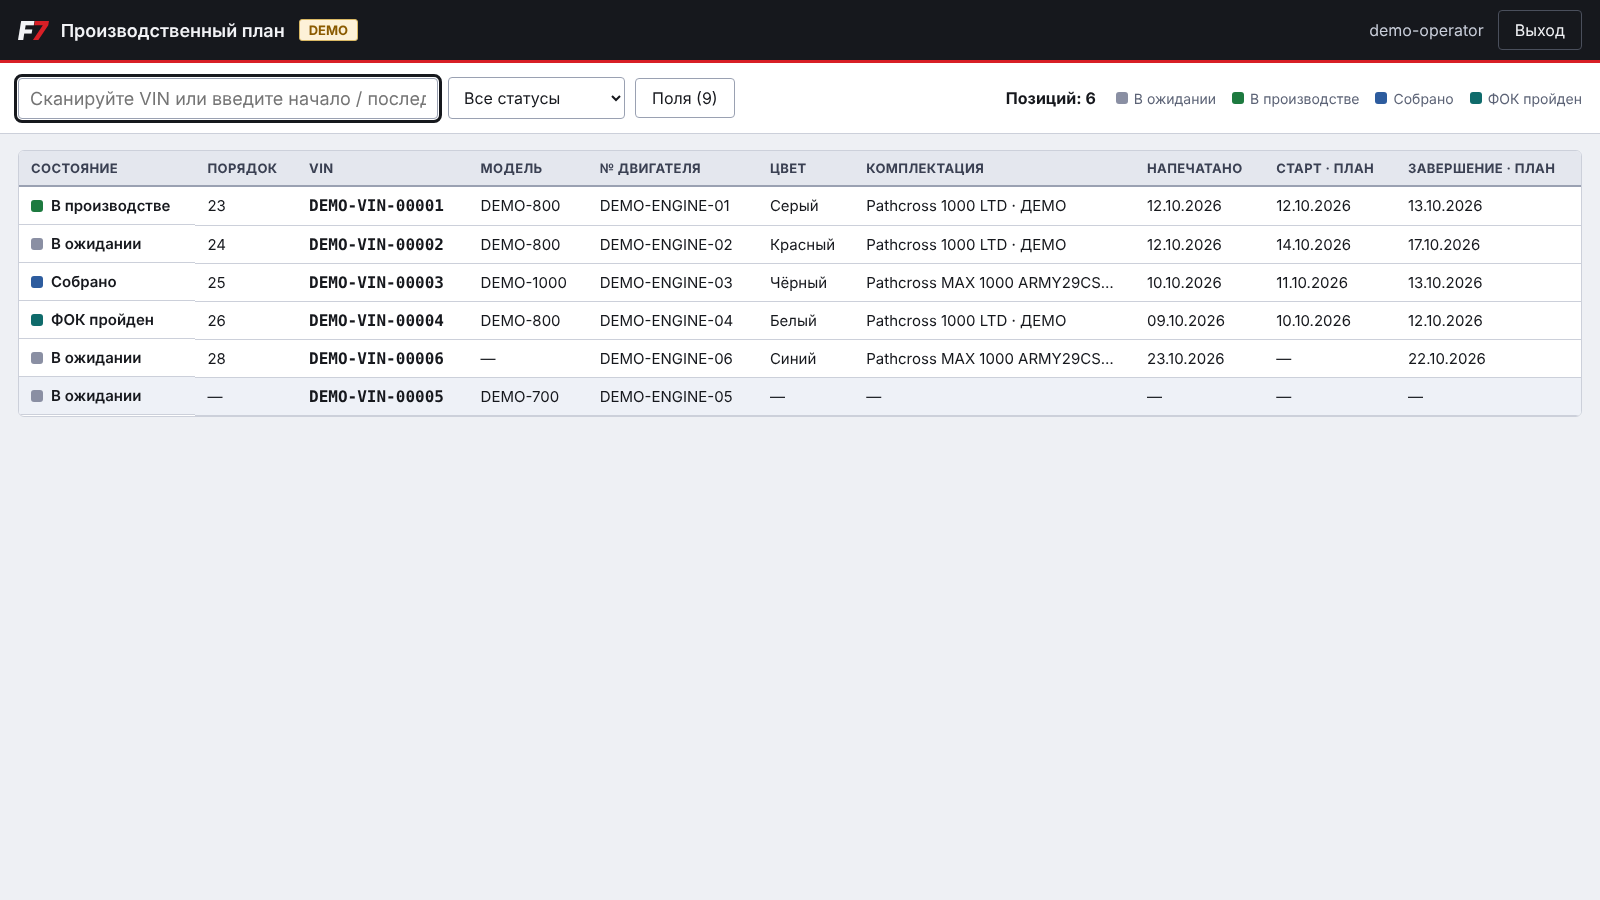
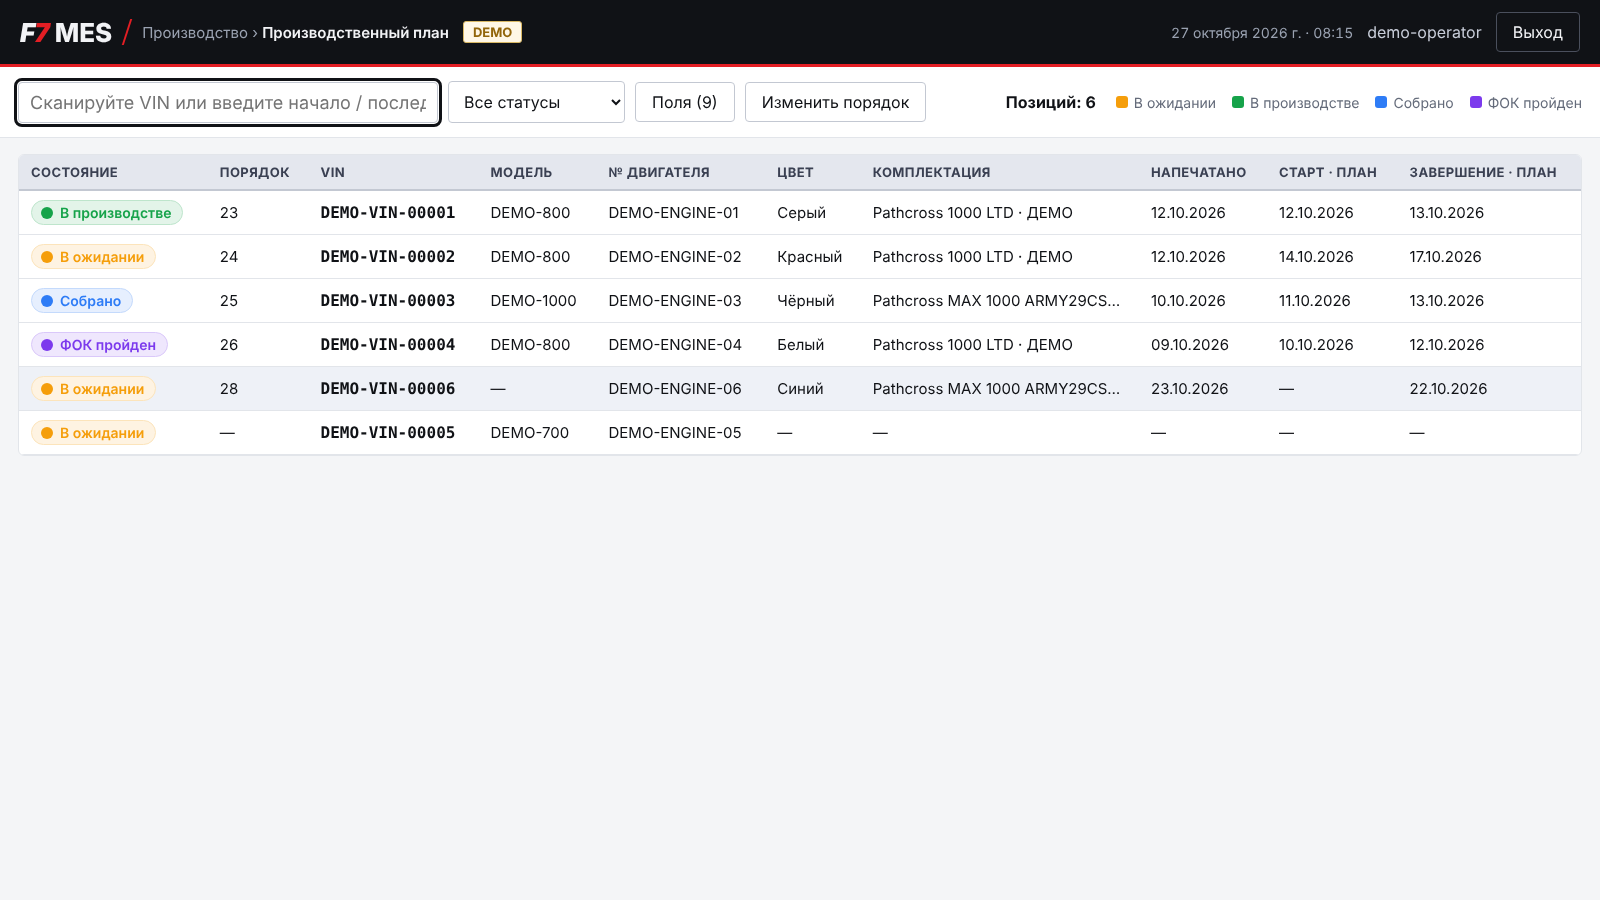
feat(mes): визуальный язык по концепту F7 MES
Палитра (графит #101216 + красный #e31e24), шкала шрифтов концепта,
статусные бейджи «заливка + точка + слово» в цветах концепта
(ожидает — янтарный, в работе — зелёный, план/собрано — синий,
контроль/ФОК — фиолетовый), шапка с хлебными крошками, датой-временем
и логотипом F7 MES. Главное действие — фирменный красный.

Исходники концепта сохранены в docs/design/. В docs/DESIGN_DIRECTION.md
записано: что взято, правило для красного (крупная кнопка = действие,
маленький бейдж = брак), что отложено сознательно (боковое меню до
второго экрана, дашборд и линия станций — нет данных, тёмная тема)
и где концепт расходится с реальной схемой (ключ VIN вместо серийного
номера и заказов PO, строка плана = одно изделие, станций в данных нет).

Claude-Session: https://claude.ai/code/session_01MHLE83y1reisH1Le2nLnJn

Changed region(s): [[0.0, 0.0, 1.0, 0.4978]]

diff --git a/formulad-mes2/apps/web/src/styles.css b/formulad-mes2/apps/web/src/styles.css
@@ -1,26 +1,34 @@
 :root {
-  /* Фирменные цвета F7: графит и красный. Красный зарезервирован под брак и аварию,
-     оформлением он не работает — иначе настоящую тревогу перестанут замечать. */
-  --graphite: #16181d;
-  --graphite-soft: #2a2e38;
-  --f7-red: #d81f26;
+  /* Палитра и шкала из концепта «F7 MES» (docs/design/concept-design-system.png).
+     Красный — фирменный цвет и цвет главного действия; статус «брак» тоже красный,
+     но это всегда маленький залитый бейдж с иконкой и словом, а не крупная кнопка. */
+  --graphite: #101216;
+  --graphite-soft: #1c2026;
+  --graphite-line: #2a2f38;
+  --f7-red: #e31e24;
+  --f7-red-dark: #b8171c;
 
-  --bg: #eef0f4;
+  --bg: #f4f5f7;
   --surface: #ffffff;
-  --border: #ccd0da;
-  --border-strong: #9aa1b2;
-  --text: #16181d;
-  --muted: #5c6376;
+  --border: #e2e5ea;
+  --border-strong: #c3c8d2;
+  --text: #101216;
+  --muted: #646b7a;
 
-  --state-waiting: #8a8fa3;
-  --state-in-work: #1d7a3f;
-  --state-complete: #2d5c9e;
-  --state-fok: #0f6b6b;
-  --warn-bg: #fdf1d8;
-  --warn: #8a5a00;
+  /* Статусы концепта: план — синий, в сборке — зелёный, ожидает — янтарный,
+     контроль — фиолетовый, брак — красный. */
+  --st-plan: #2e7cf6;
+  --st-work: #16a34a;
+  --st-wait: #f59e0b;
+  --st-control: #7c3aed;
+  --st-reject: #dc2626;
+  --st-open: #6b7280;
 
-  font-family: system-ui, "Segoe UI", Roboto, sans-serif;
-  /* Экран смотрят с рабочего ПК, поэтому базовый размер крупнее офисного. */
+  --warn-bg: #fff7e6;
+  --warn: #92650a;
+
+  font-family: Inter, system-ui, "Segoe UI", Roboto, sans-serif;
+  /* Шкала концепта: H1 32 / H2 24 / H3 18 / Body 16 / Small 14 / Caption 12. */
   font-size: 16px;
   color-scheme: light;
 }
@@ -80,11 +88,23 @@ button.link {
   display: flex;
   align-items: center;
   gap: 14px;
-  padding: 10px 18px;
+  padding: 12px 20px;
   background: var(--graphite);
   color: #f2f3f6;
   border-bottom: 3px solid var(--f7-red);
 }
+
+/* Разделитель-«слэш» из логотипа концепта. */
+.topbar .slash {
+  width: 2px;
+  height: 26px;
+  background: var(--f7-red);
+  transform: skewX(-18deg);
+}
+
+.breadcrumbs { color: #9aa2b1; font-size: 15px; }
+.breadcrumbs b { color: #f2f3f6; font-weight: 600; }
+.topbar-clock { color: #9aa2b1; font-size: 14px; font-variant-numeric: tabular-nums; }
 
 .logo {
   font-weight: 900;
@@ -126,10 +146,10 @@ button.link {
   background: currentColor;
 }
 
-.state-waiting { color: var(--state-waiting); }
-.state-in-work { color: var(--state-in-work); }
-.state-complete { color: var(--state-complete); }
-.state-fok { color: var(--state-fok); }
+.state-waiting { color: var(--st-wait); }
+.state-in-work { color: var(--st-work); }
+.state-complete { color: var(--st-plan); }
+.state-fok { color: var(--st-control); }
 
 /* --- Контент --- */
 .content {
@@ -184,10 +204,22 @@ tbody tr { cursor: pointer; }
 tbody tr:hover { background: #eef1f7; }
 tbody tr.selected { background: #e3e9f6; }
 
-/* Состояние: цвет + слово, цвет один смысла не несёт.
+/* Состояние: залитый бейдж с точкой и словом — цвет один смысла не несёт.
    Внутри ячейки только inline-элементы: display:flex на td ломает табличную раскладку. */
-.state-cell { font-weight: 600; }
-.state-cell .swatch { margin-right: 8px; vertical-align: -1px; }
+.state-cell { font-weight: 500; }
+
+.state-badge {
+  display: inline-block;
+  padding: 3px 11px 3px 9px;
+  border-radius: 999px;
+  font-size: 14px;
+  font-weight: 600;
+  white-space: nowrap;
+  background: color-mix(in srgb, currentColor 12%, white);
+  border: 1px solid color-mix(in srgb, currentColor 28%, white);
+}
+
+.state-badge .swatch { margin-right: 7px; vertical-align: -1px; border-radius: 50%; }
 
 /* VIN — главное в строке, остальное тише. */
 td.vin { font-weight: 700; font-size: 16px; }
@@ -246,7 +278,7 @@ dd { margin: 0; text-align: right; font-weight: 500; }
 .login { display: flex; justify-content: center; padding: 64px 16px; }
 .login .card { width: 400px; display: flex; flex-direction: column; gap: 12px; }
 .login label { display: flex; flex-direction: column; gap: 4px; }
-.login h1 { margin: 0; font-size: 22px; }
+.login h1 { margin: 0; font-size: 24px; }
 
 .sr-only {
   position: absolute;
@@ -280,11 +312,12 @@ dd { margin: 0; text-align: right; font-weight: 500; }
 .order-cell button { padding: 2px 9px; line-height: 1.4; margin-right: 4px; }
 
 button.primary {
-  background: var(--graphite);
-  border-color: var(--graphite);
-  color: #f2f3f6;
+  background: var(--f7-red);
+  border-color: var(--f7-red);
+  color: #fff;
+  font-weight: 600;
 }
-button.primary:hover:not([disabled]) { background: var(--graphite-soft); }
+button.primary:hover:not([disabled]) { background: var(--f7-red-dark); border-color: var(--f7-red-dark); }
 
 /* Перемещённая строка подсвечивается и гаснет сама. */
 tbody tr.moved { animation: moved-flash 2.5s ease-out; }
@@ -318,7 +351,7 @@ tbody tr.moved { animation: moved-flash 2.5s ease-out; }
   box-shadow: 0 16px 48px rgba(0, 0, 0, .3);
 }
 
-.modal h2 { margin: 0 0 14px; font-size: 19px; }
+.modal h2 { margin: 0 0 14px; font-size: 18px; }
 .modal label { display: flex; flex-direction: column; gap: 4px; margin-top: 14px; }
 .modal input { font-size: 18px; }
 
@@ -333,3 +366,5 @@ tbody tr.moved { animation: moved-flash 2.5s ease-out; }
 .preview-bad { background: #f3e5e5; color: var(--f7-red); }
 
 .modal-actions { display: flex; justify-content: flex-end; gap: 10px; margin-top: 18px; }
+
+.logo-suffix { margin-left: 6px; font-weight: 800; font-style: normal; letter-spacing: 0; }

diff --git a/formulad-mes2/apps/web/src/PlanScreen.tsx b/formulad-mes2/apps/web/src/PlanScreen.tsx
@@ -12,6 +12,24 @@ const PAGE_SIZE = 25;
 const ALL = '__all__';
 const NO_STATUS = '__null__';
 
+/** Дата и время смены в шапке — как в концепте: оператор не лезет в угол Windows. */
+function Clock() {
+  const [now, setNow] = useState(() => new Date());
+
+  useEffect(() => {
+    const timer = setInterval(() => setNow(new Date()), 30_000);
+    return () => clearInterval(timer);
+  }, []);
+
+  const date = now.toLocaleDateString('ru-RU', { day: '2-digit', month: 'long', year: 'numeric' });
+  const time = now.toLocaleTimeString('ru-RU', { hour: '2-digit', minute: '2-digit' });
+  return (
+    <span className="topbar-clock">
+      {date} · {time}
+    </span>
+  );
+}
+
 const LEGEND = [
   { key: 'waiting', label: 'В ожидании' },
   { key: 'in-work', label: 'В производстве' },
@@ -125,14 +143,19 @@ export function PlanScreen({
   return (
     <div className="app">
       <header className="topbar">
-        <span className="logo" aria-label="FormulaD">
+        <span className="logo" aria-label="F7 MES">
           F<span className="logo-mark">7</span>
+          <span className="logo-suffix">MES</span>
         </span>
-        <span className="topbar-title">Производственный план</span>
+        <span className="slash" aria-hidden="true" />
+        <span className="breadcrumbs">
+          Производство <span aria-hidden="true">›</span> <b>Производственный план</b>
+        </span>
         <span className="badge badge-demo" title="Синтетические данные, не производственные">
           DEMO
         </span>
         <span className="spacer" />
+        <Clock />
         <span className="topbar-user">{session.userName ?? 'неизвестно'}</span>
         <button
           type="button"
@@ -307,8 +330,10 @@ export function PlanScreen({
                         </td>
                       )}
                       <td className="state-cell">
-                        <i className={`swatch state-${row.key}`} aria-hidden="true" />
-                        {row.label}
+                        <span className={`state-badge state-${row.key}`}>
+                          <i className="swatch" aria-hidden="true" />
+                          {row.label}
+                        </span>
                       </td>
                       {columns.map((column) => {
                         const value = column.value(item);

diff --git a/formulad-mes2/docs/DESIGN_DIRECTION.md b/formulad-mes2/docs/DESIGN_DIRECTION.md
@@ -1,0 +1,68 @@
+# Направление дизайна по концепту «F7 MES»
+
+Источник: архив с идеями интерфейса от РП, 27.10.2026. Сохранён в `docs/design/`:
+`concept-9-screens.png` (9 экранов), `concept-design-system.png` (дизайн-система),
+`concept-status-badges.png`, `concept-sidebar.png`, `concept-header.png`, `concept-controls.png`.
+
+## Что взято в работу сразу
+
+| Из концепта | Как применено |
+|---|---|
+| Палитра: графит `#101216` + фирменный красный `#e31e24` | Шапка, акценты, главное действие |
+| Шкала шрифтов H1 32 / H2 24 / H3 18 / Body 16 / Small 14 / Caption 12 | Заголовки и таблица |
+| Статусные бейджи: заливка + точка + слово | Колонка «Состояние» и легенда |
+| Цвета статусов: план — синий, в работе — зелёный, ожидает — янтарный, контроль — фиолетовый, брак — красный | `В ожидании` янтарный, `В производстве` зелёный, `Собрано` синий, `ФОК пройден` фиолетовый |
+| Шапка с «хлебными крошками», датой/временем и пользователем | Шапка экрана плана |
+| Логотип `F7 MES` с красным «слэшем» | Шапка |
+
+## Правило для красного
+
+В концепте красный одновременно и главная кнопка («Принять изделие», «Завершить станцию»),
+и статус брака. Это допустимо, потому что формы разные: **действие — крупная залитая кнопка,
+статус — маленький бейдж с точкой и словом**. Закрепляем:
+
+- крупная красная кнопка = главное действие экрана, максимум одна на экран;
+- красный бейдж = брак/отклонение, и только он;
+- опасные операции (удаление) — не просто красные, а с подтверждением;
+- оформление (рамки, полосы, фон) красным не красим.
+
+## Что отложено сознательно
+
+- **Боковое меню** (`concept-sidebar.png`). Пока экран один, меню из одного пункта — декорация,
+  а пункты, ведущие в никуда, нарушают правило «никаких фиктивных работающих кнопок».
+  Вводим вместе со вторым экраном.
+- **Дашборд** (315 изделий, загрузка станций, % прохождения ОТК). Требует данных, которых
+  в базе сейчас нет: счётчиков по станциям и результатов ОТК.
+- **Линия сборки из 11 станций** и маршрут изделия. В обследованной схеме станций нет:
+  форма `frmStations` ссылается на таблицу `tblStation`, которой нет среди выгруженных
+  (риск R-08 аудита). Сначала нужно понять, откуда брать станцию изделия.
+- **Карточки станций с фотографиями узлов** (`concept-*`): красиво, но требует библиотеки
+  изображений и места на экране. Уместно на рабочем месте оператора станции, не в плане.
+- **Тёмная тема целиком** (вариант дизайн-системы на чёрном фоне). Светлый экран в цеху
+  читается лучше; к тому же бейджи со свечением на чёрном теряют контраст.
+
+## Где концепт расходится с реальными данными
+
+Концепт нарисован для обобщённой MES, а не по схеме `FormulaD`. Расхождения, которые нельзя
+переносить дословно:
+
+1. **Ключ изделия.** В концепте — «Серийный номер SN24-11837» и «№ заказа PO-2024-1047».
+   В реальной базе ключ — `VIN`, а заказов (`PO`) нет вовсе.
+2. **Единицы плана.** В концепте план измеряется в штуках («План 120, Выпущено 98»).
+   В `tblProductionPlan` одна строка = одно изделие; количества нет.
+3. **Изделие.** В концепте собирают редуктор `F7-AX250`; в плане — квадроциклы с моделью,
+   комплектацией и цветом.
+4. **Станции.** В концепте 11 станций с тактом и загрузкой; в данных их нет (см. выше).
+5. **Смены.** В концепте есть «Смена А 06:00–14:00»; в схеме плана смен нет.
+
+Это не недостаток концепта — он задаёт визуальный язык. Но экраны надо строить на реальных
+полях, иначе получится красивая витрина, которую нечем наполнить.
+
+## Предлагаемый порядок дальнейших экранов
+
+1. **Экран плана** — есть, приведён к стилю концепта.
+2. **Боковое меню + каркас приложения** — когда появится второй экран.
+3. **Карточка изделия как полноценный экран** (вкладки «Общее», «История») — на существующих полях.
+4. **Старт / Финиш / ФОК** — требуют операций записи и согласованных правил переходов.
+5. **Несоответствия (NCP)** — есть таблица `tblNCP` с FK на план, данные реальные.
+6. **Дашборд и отчёты** — последними, когда будет что считать.

diff --git a/formulad-mes2/docs/UI_DECISIONS.md b/formulad-mes2/docs/UI_DECISIONS.md
@@ -44,6 +44,10 @@
     Экран просмотра при этом обязан корректно показывать и некорректные данные (пустой `SEQN`,
     пропуски): схема SQL их допускает, а сплошность обеспечивает операция записи.
 
+11. **Визуальный язык — по концепту «F7 MES»** от РП: палитра, шкала шрифтов, статусные бейджи
+    и шапка с хлебными крошками. Что взято, что отложено и чем концепт расходится с реальной
+    схемой — в `docs/DESIGN_DIRECTION.md`, исходники концепта — в `docs/design/`.
+
 ## Открытые вопросы
 
 - Подтверждено РП: «Дата завершения · план» — существующее отдельное поле. Его точное имя в схеме
